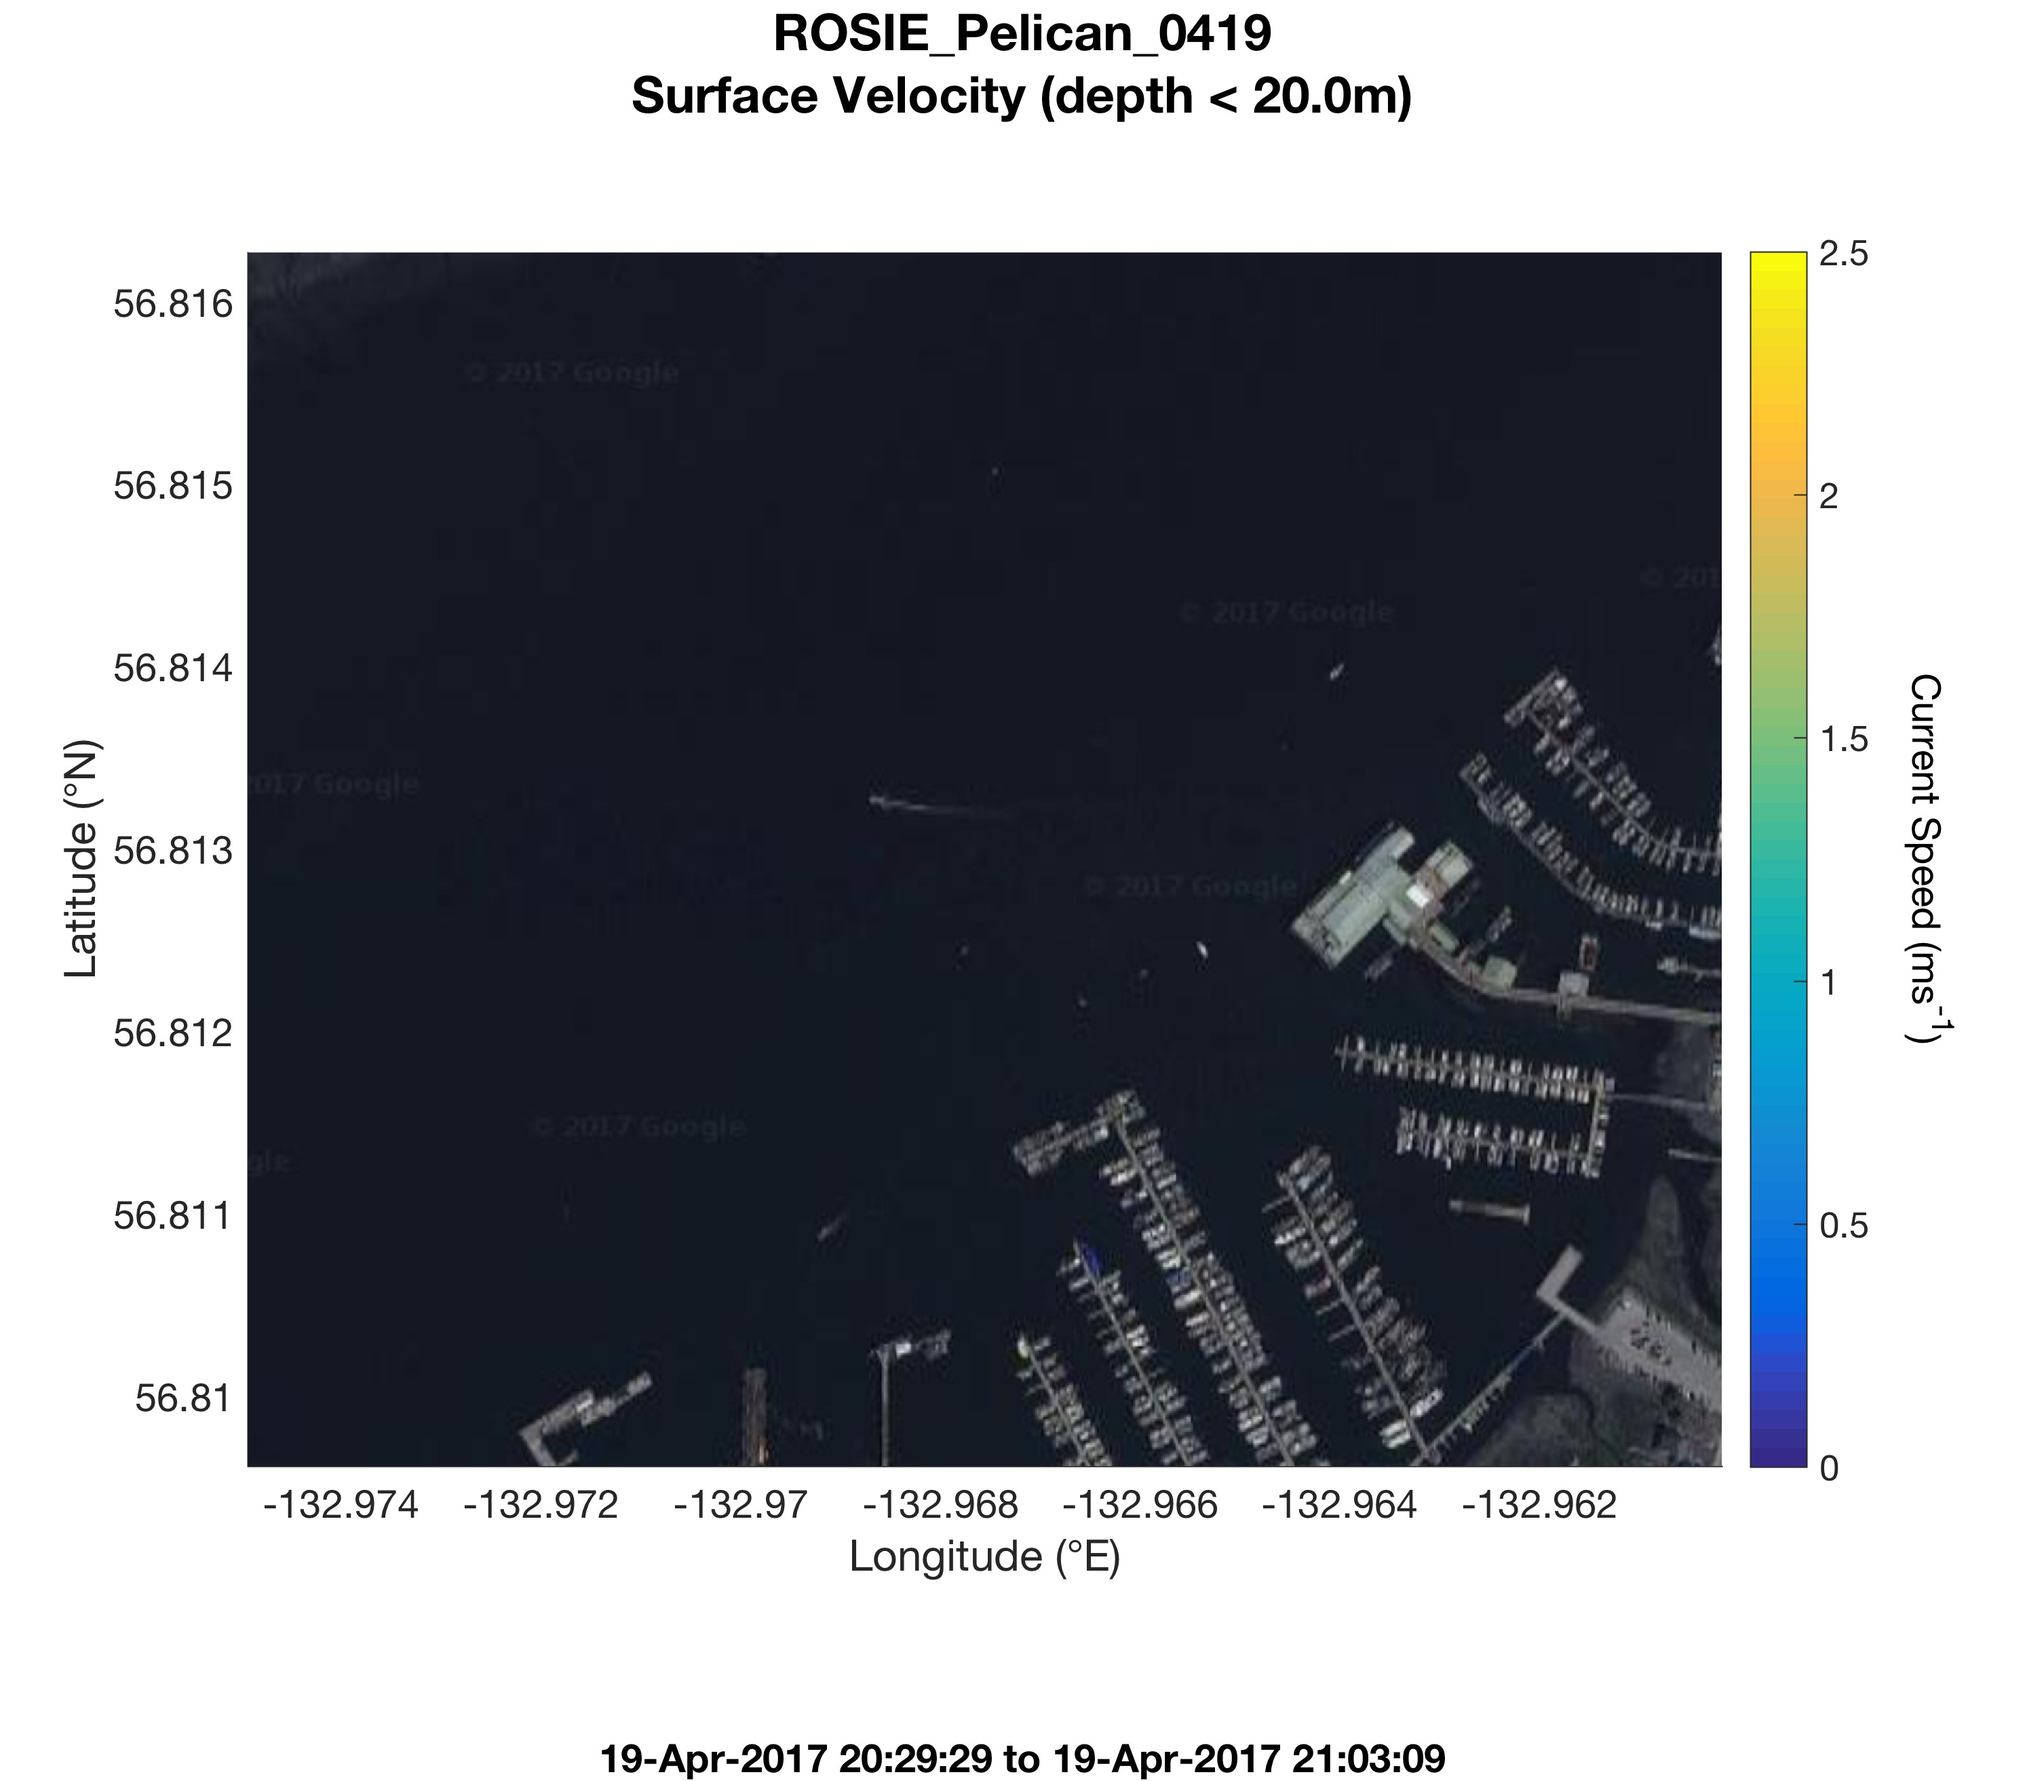
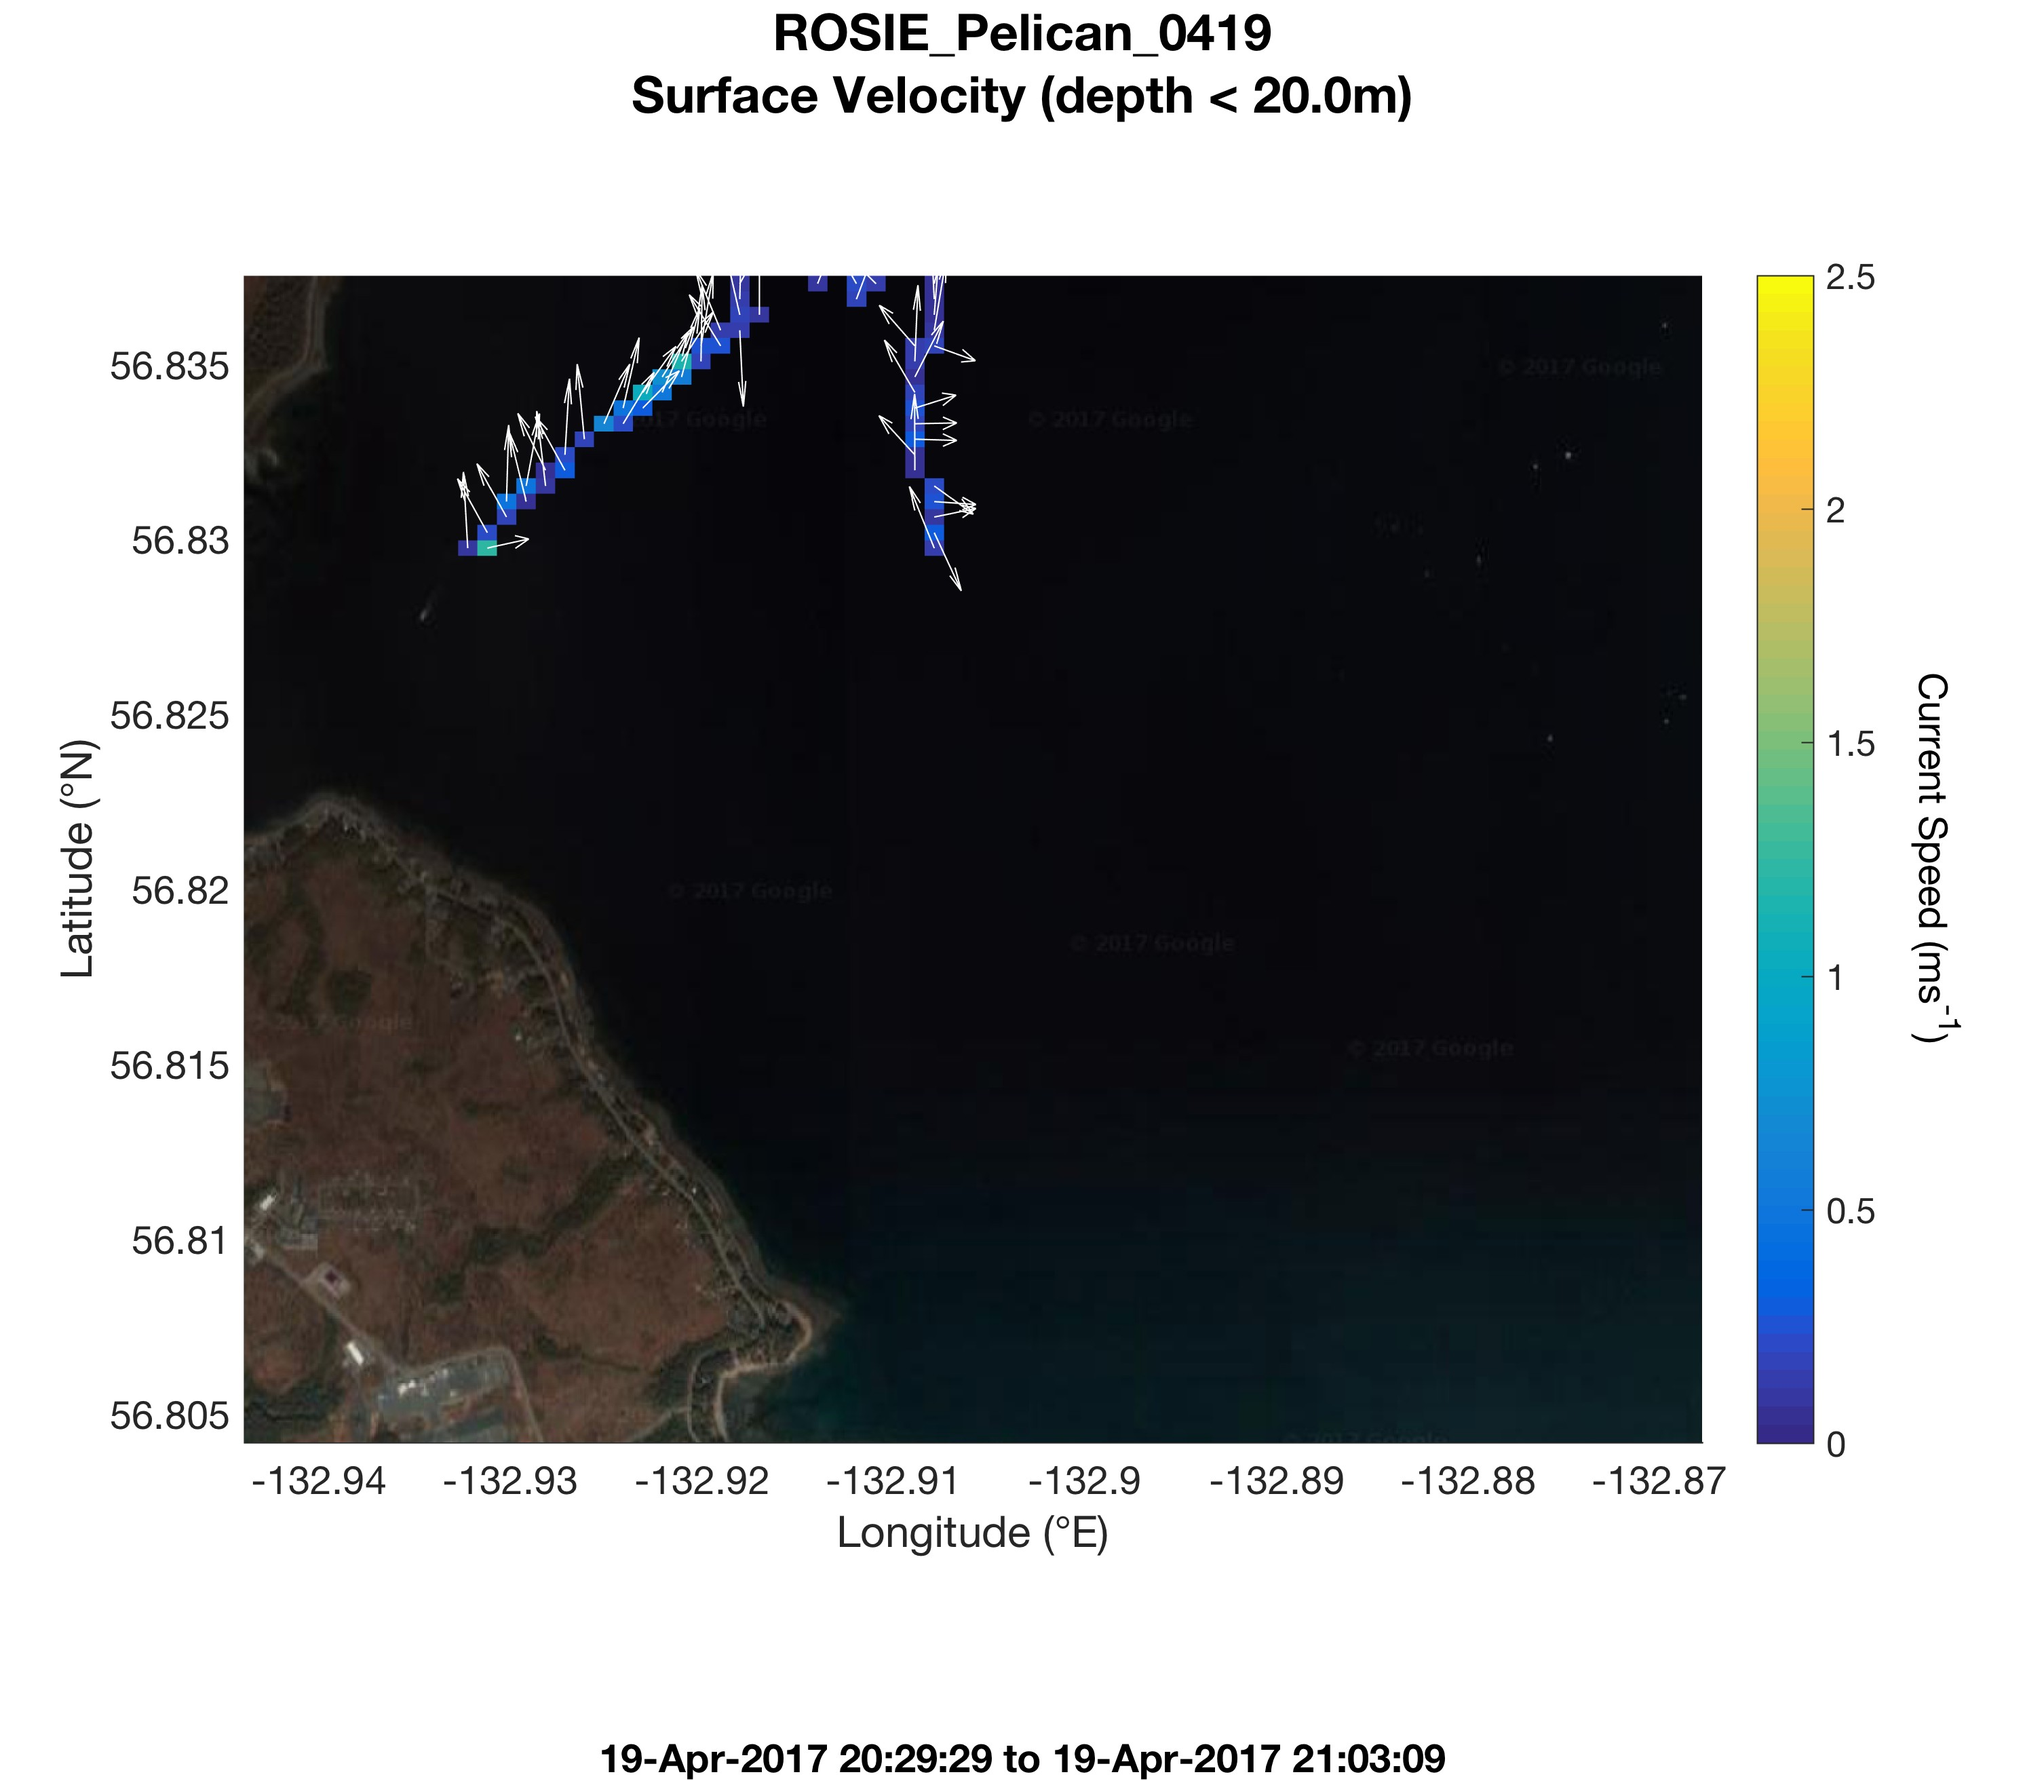
update map

Changed region(s): [[0.0312, 0.125, 0.9671, 0.9059], [0.5928, 0.3124, 0.6864, 0.3749], [0.4056, 0.4373, 0.4992, 0.4686]]

diff --git a/Code/petersburg_2017_apr/petersburg_2017_apr_rosie.m b/Code/petersburg_2017_apr/petersburg_2017_apr_rosie.m
@@ -17,6 +17,7 @@ rosie(dep).plot.ylim  = [0 100];
 % -- Pelican trip 04/19/17
 %    - the logged PAVS files seem to be corrupted.
 dep = 2;
+rosie(dep).files.map = 'petersburg_fredrick_sound';
 rosie(dep).proc.ross_timestamps = true;
 rosie(dep).name       = 'ROSIE_Pelican_0419';
 rosie(dep).tlim       = datenum(...
@@ -57,6 +58,7 @@ rosie(dep).proc.filters = rotmax;
 
 %--------------------------------------------------------%
 dep = 3;
+rosie(dep).files.map = 'petersburg_fredrick_sound';
 rosie(dep).proc.ross_timestamps = true;
 rosie(dep).name = 'ROSIE_Fredrick_Sound_0420';
 rosie(dep).tlim = datenum(...
